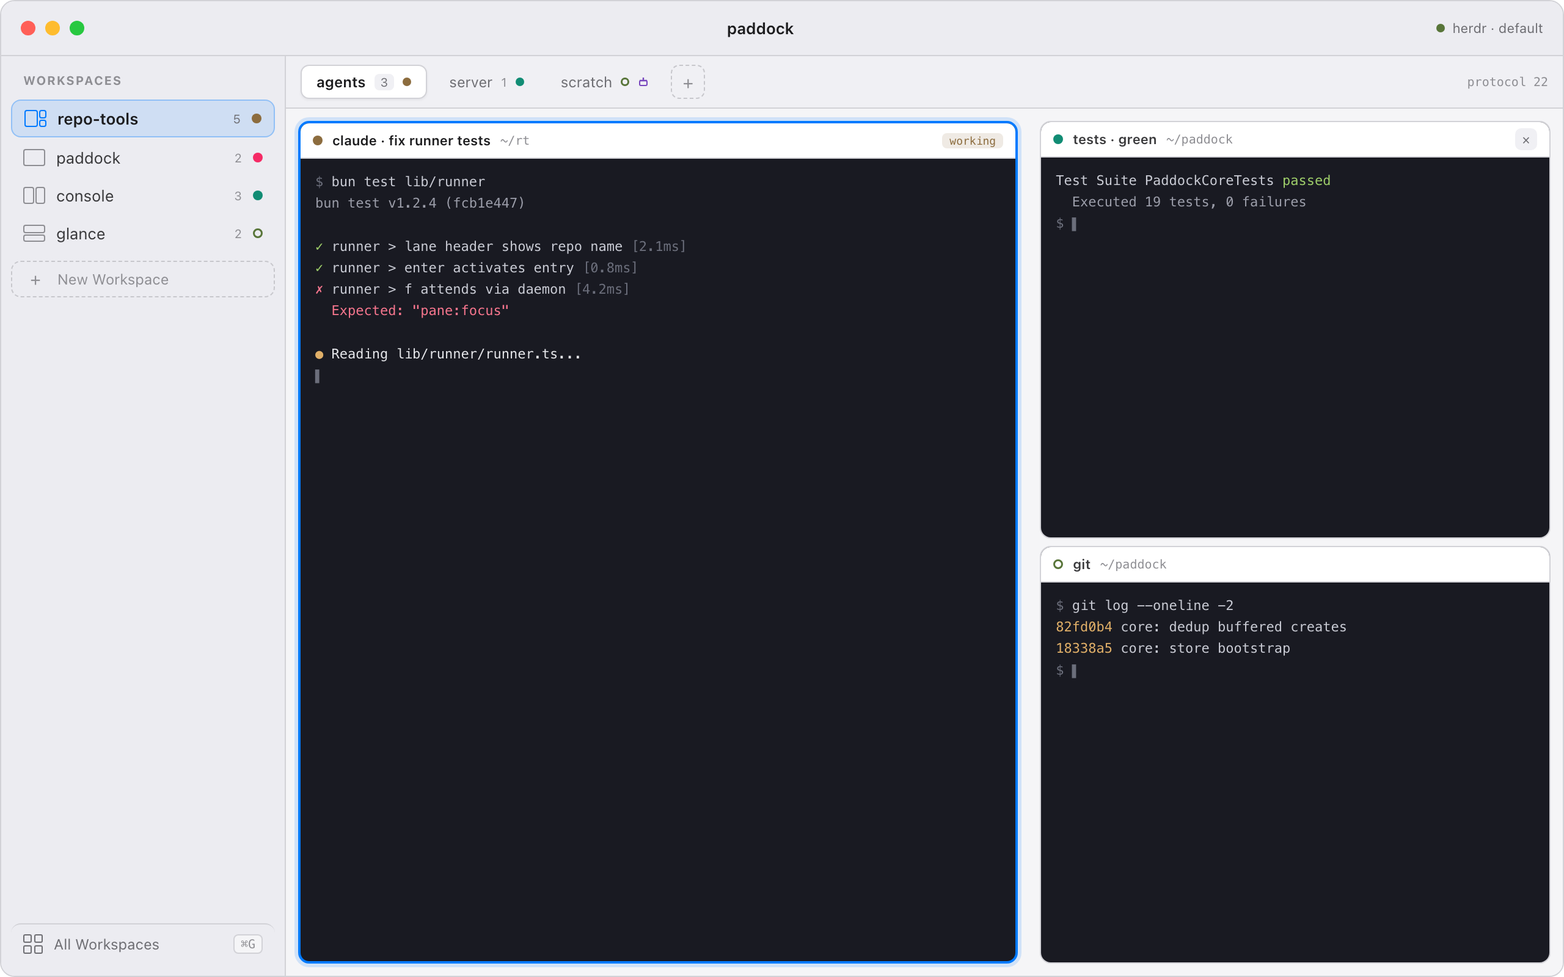
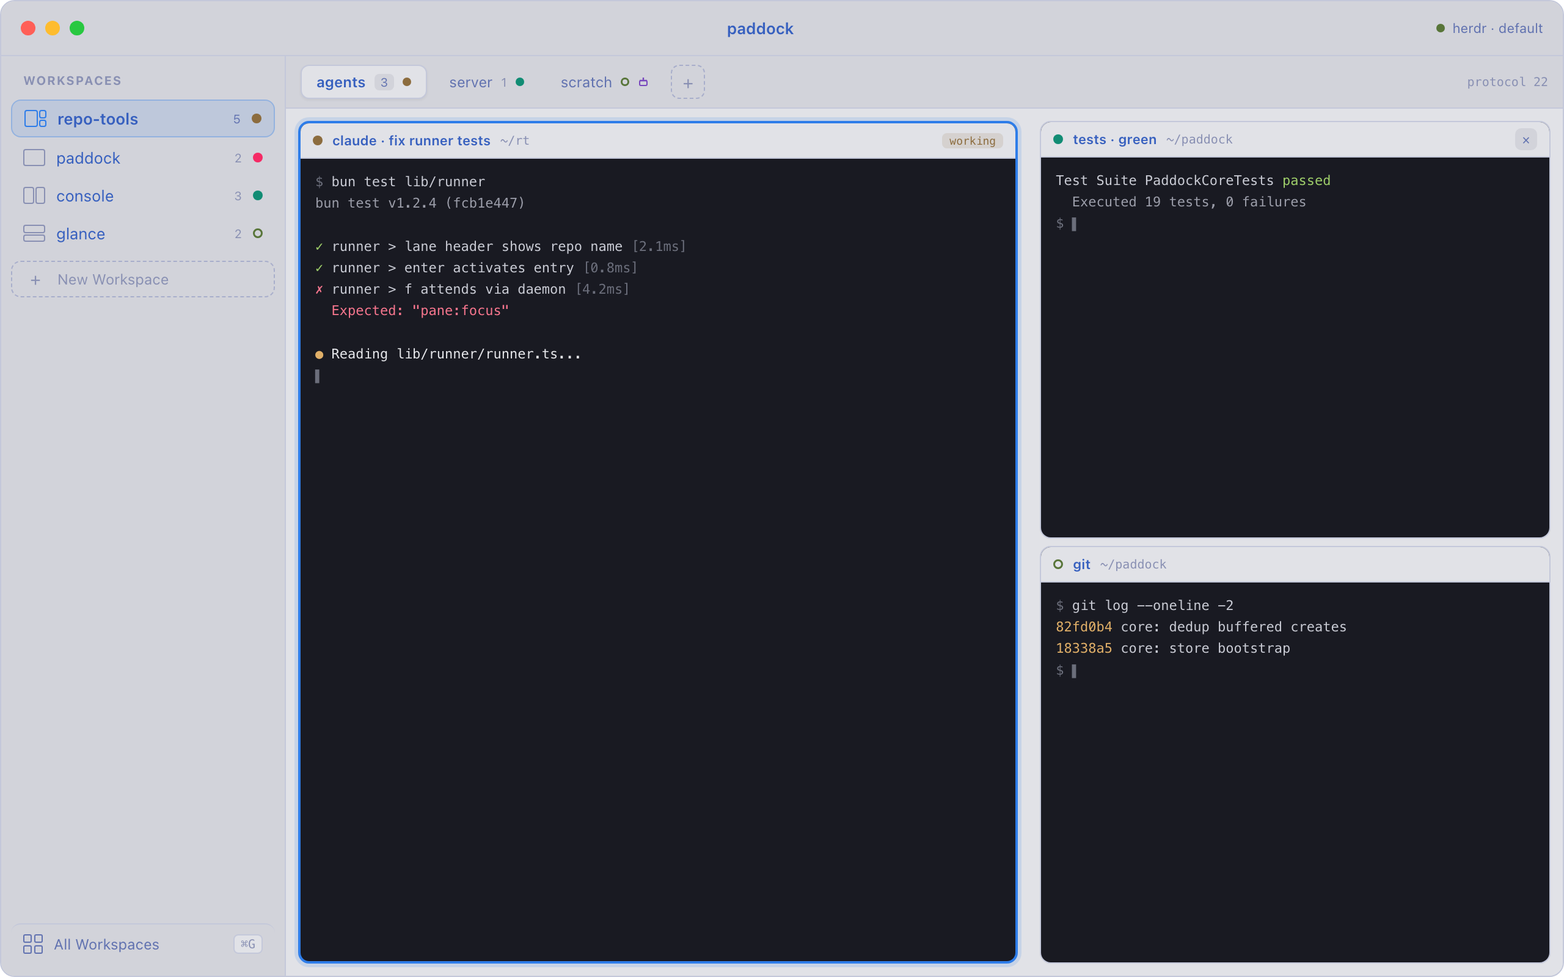
spec+plan+design: named themes mirroring herdr palettes, no light/dark modes
Claude-Session: https://claude.ai/code/session_01JFFjTKEtAPzB2Y3Ruktwxp

diff --git a/docs/design/src/MainLight.dc.html b/docs/design/src/MainLight.dc.html
@@ -13,99 +13,99 @@
     .mono { font-family: ui-monospace, "SF Mono", Menlo, monospace; }
   </style>
 </helmet>
-<div style="box-sizing: border-box; width: 1280px; height: 800px; background: #F5F5F7; border-radius: 12px; overflow: hidden; display: flex; flex-direction: column; border: 1px solid #D2D2D7;">
+<div style="box-sizing: border-box; width: 1280px; height: 800px; background: #E1E2E7; border-radius: 12px; overflow: hidden; display: flex; flex-direction: column; border: 1px solid #C4C8DA;">
 
-  <div style="height: 44px; flex: none; display: flex; align-items: center; background: #ECECF1; border-bottom: 1px solid #D2D2D7;">
+  <div style="height: 44px; flex: none; display: flex; align-items: center; background: #D2D3DA; border-bottom: 1px solid #C4C8DA;">
     <div style="display: flex; gap: 8px; padding: 0 16px;">
       <div style="width: 12px; height: 12px; border-radius: 6px; background: #FF5F57;"></div>
       <div style="width: 12px; height: 12px; border-radius: 6px; background: #FEBC2E;"></div>
       <div style="width: 12px; height: 12px; border-radius: 6px; background: #28C840;"></div>
     </div>
-    <div style="flex: 1; text-align: center; font-size: 13px; font-weight: 600; color: #1D1D1F;">paddock</div>
+    <div style="flex: 1; text-align: center; font-size: 13px; font-weight: 600; color: #3760BF;">paddock</div>
     <div style="display: flex; align-items: center; gap: 6px; padding: 0 16px;">
       <div style="width: 7px; height: 7px; border-radius: 4px; background: #587539;"></div>
-      <div style="font-size: 11px; color: #6E6E73;">herdr · default</div>
+      <div style="font-size: 11px; color: #6172B0;">herdr · default</div>
     </div>
   </div>
 
   <div style="flex: 1; display: flex; min-height: 0;">
 
-    <div style="width: 216px; flex: none; background: #ECECF1; border-right: 1px solid #D2D2D7; display: flex; flex-direction: column; padding: 10px 8px; gap: 2px;">
-      <div style="font-size: 10px; font-weight: 700; letter-spacing: 0.08em; color: #8E8E93; padding: 4px 10px 8px;">WORKSPACES</div>
+    <div style="width: 216px; flex: none; background: #D2D3DA; border-right: 1px solid #C4C8DA; display: flex; flex-direction: column; padding: 10px 8px; gap: 2px;">
+      <div style="font-size: 10px; font-weight: 700; letter-spacing: 0.08em; color: #8990B3; padding: 4px 10px 8px;">WORKSPACES</div>
 
-      <div style="display: flex; align-items: center; gap: 9px; padding: 7px 10px; border-radius: 8px; background: rgba(0,122,255,0.12); border: 1px solid rgba(0,122,255,0.3);">
-        <svg width="18" height="14" viewBox="0 0 18 14" fill="none"><rect x="0.5" y="0.5" width="10" height="13" rx="1.5" stroke="#007AFF"/><rect x="12.5" y="0.5" width="5" height="6" rx="1.5" stroke="#007AFF"/><rect x="12.5" y="8.5" width="5" height="5" rx="1.5" stroke="#007AFF"/></svg>
-        <div style="flex: 1; font-size: 13px; font-weight: 600; color: #1D1D1F;">repo-tools</div>
-        <div style="font-size: 10px; color: #6E6E73;">5</div>
+      <div style="display: flex; align-items: center; gap: 9px; padding: 7px 10px; border-radius: 8px; background: rgba(46,125,233,0.12); border: 1px solid rgba(46,125,233,0.3);">
+        <svg width="18" height="14" viewBox="0 0 18 14" fill="none"><rect x="0.5" y="0.5" width="10" height="13" rx="1.5" stroke="#2E7DE9"/><rect x="12.5" y="0.5" width="5" height="6" rx="1.5" stroke="#2E7DE9"/><rect x="12.5" y="8.5" width="5" height="5" rx="1.5" stroke="#2E7DE9"/></svg>
+        <div style="flex: 1; font-size: 13px; font-weight: 600; color: #3760BF;">repo-tools</div>
+        <div style="font-size: 10px; color: #6172B0;">5</div>
         <div style="width: 8px; height: 8px; border-radius: 4px; background: #8C6C3E;"></div>
       </div>
 
       <div style="display: flex; align-items: center; gap: 9px; padding: 7px 10px; border-radius: 8px;">
-        <svg width="18" height="14" viewBox="0 0 18 14" fill="none"><rect x="0.5" y="0.5" width="17" height="13" rx="1.5" stroke="#8E8E93"/></svg>
-        <div style="flex: 1; font-size: 13px; color: #3A3A3C;">paddock</div>
-        <div style="font-size: 10px; color: #8E8E93;">2</div>
+        <svg width="18" height="14" viewBox="0 0 18 14" fill="none"><rect x="0.5" y="0.5" width="17" height="13" rx="1.5" stroke="#8990B3"/></svg>
+        <div style="flex: 1; font-size: 13px; color: #3760BF;">paddock</div>
+        <div style="font-size: 10px; color: #8990B3;">2</div>
         <div style="width: 8px; height: 8px; border-radius: 4px; background: #F52A65;"></div>
       </div>
 
       <div style="display: flex; align-items: center; gap: 9px; padding: 7px 10px; border-radius: 8px;">
-        <svg width="18" height="14" viewBox="0 0 18 14" fill="none"><rect x="0.5" y="0.5" width="8" height="13" rx="1.5" stroke="#8E8E93"/><rect x="10.5" y="0.5" width="7" height="13" rx="1.5" stroke="#8E8E93"/></svg>
-        <div style="flex: 1; font-size: 13px; color: #3A3A3C;">console</div>
-        <div style="font-size: 10px; color: #8E8E93;">3</div>
+        <svg width="18" height="14" viewBox="0 0 18 14" fill="none"><rect x="0.5" y="0.5" width="8" height="13" rx="1.5" stroke="#8990B3"/><rect x="10.5" y="0.5" width="7" height="13" rx="1.5" stroke="#8990B3"/></svg>
+        <div style="flex: 1; font-size: 13px; color: #3760BF;">console</div>
+        <div style="font-size: 10px; color: #8990B3;">3</div>
         <div style="width: 8px; height: 8px; border-radius: 4px; background: #118C74;"></div>
       </div>
 
       <div style="display: flex; align-items: center; gap: 9px; padding: 7px 10px; border-radius: 8px;">
-        <svg width="18" height="14" viewBox="0 0 18 14" fill="none"><rect x="0.5" y="0.5" width="17" height="6" rx="1.5" stroke="#8E8E93"/><rect x="0.5" y="8.5" width="17" height="5" rx="1.5" stroke="#8E8E93"/></svg>
-        <div style="flex: 1; font-size: 13px; color: #3A3A3C;">glance</div>
-        <div style="font-size: 10px; color: #8E8E93;">2</div>
+        <svg width="18" height="14" viewBox="0 0 18 14" fill="none"><rect x="0.5" y="0.5" width="17" height="6" rx="1.5" stroke="#8990B3"/><rect x="0.5" y="8.5" width="17" height="5" rx="1.5" stroke="#8990B3"/></svg>
+        <div style="flex: 1; font-size: 13px; color: #3760BF;">glance</div>
+        <div style="font-size: 10px; color: #8990B3;">2</div>
         <div style="width: 8px; height: 8px; border-radius: 4px; box-sizing: border-box; background: transparent; border: 1.5px solid #587539;"></div>
       </div>
 
-      <div style="display: flex; align-items: center; gap: 9px; padding: 7px 10px; border-radius: 8px; border: 1px dashed #C7C7CC; margin-top: 6px;">
-        <div style="width: 18px; text-align: center; color: #8E8E93; font-size: 14px; line-height: 1;">+</div>
-        <div style="font-size: 12px; color: #8E8E93;">New Workspace</div>
+      <div style="display: flex; align-items: center; gap: 9px; padding: 7px 10px; border-radius: 8px; border: 1px dashed #A8AECB; margin-top: 6px;">
+        <div style="width: 18px; text-align: center; color: #8990B3; font-size: 14px; line-height: 1;">+</div>
+        <div style="font-size: 12px; color: #8990B3;">New Workspace</div>
       </div>
 
       <div style="flex: 1;"></div>
 
-      <div style="display: flex; align-items: center; gap: 9px; padding: 8px 10px; border-radius: 8px; border-top: 1px solid #D2D2D7;">
-        <svg width="16" height="16" viewBox="0 0 16 16" fill="none"><rect x="0.5" y="0.5" width="6" height="6" rx="1" stroke="#6E6E73"/><rect x="9.5" y="0.5" width="6" height="6" rx="1" stroke="#6E6E73"/><rect x="0.5" y="9.5" width="6" height="6" rx="1" stroke="#6E6E73"/><rect x="9.5" y="9.5" width="6" height="6" rx="1" stroke="#6E6E73"/></svg>
-        <div style="font-size: 12px; color: #6E6E73;">All Workspaces</div>
+      <div style="display: flex; align-items: center; gap: 9px; padding: 8px 10px; border-radius: 8px; border-top: 1px solid #C4C8DA;">
+        <svg width="16" height="16" viewBox="0 0 16 16" fill="none"><rect x="0.5" y="0.5" width="6" height="6" rx="1" stroke="#6172B0"/><rect x="9.5" y="0.5" width="6" height="6" rx="1" stroke="#6172B0"/><rect x="0.5" y="9.5" width="6" height="6" rx="1" stroke="#6172B0"/><rect x="9.5" y="9.5" width="6" height="6" rx="1" stroke="#6172B0"/></svg>
+        <div style="font-size: 12px; color: #6172B0;">All Workspaces</div>
         <div style="flex: 1;"></div>
-        <div class="mono" style="font-size: 10px; color: #8E8E93; background: #F5F5F7; border: 1px solid #D2D2D7; border-radius: 4px; padding: 1px 5px;">⌘G</div>
+        <div class="mono" style="font-size: 10px; color: #8990B3; background: #E1E2E7; border: 1px solid #C4C8DA; border-radius: 4px; padding: 1px 5px;">⌘G</div>
       </div>
     </div>
 
     <div style="flex: 1; display: flex; flex-direction: column; min-width: 0;">
 
-      <div style="height: 42px; flex: none; display: flex; align-items: center; gap: 6px; padding: 0 12px; background: #F0F0F4; border-bottom: 1px solid #D2D2D7;">
-        <div style="display: flex; align-items: center; gap: 7px; padding: 6px 12px; border-radius: 7px; background: #FFFFFF; border: 1px solid #D2D2D7; box-shadow: 0 1px 2px rgba(0,0,0,0.06);">
-          <div style="font-size: 12px; font-weight: 600; color: #1D1D1F;">agents</div>
-          <div style="font-size: 10px; color: #6E6E73; background: #F0F0F4; border-radius: 4px; padding: 1px 5px;">3</div>
+      <div style="height: 42px; flex: none; display: flex; align-items: center; gap: 6px; padding: 0 12px; background: #D2D3DA; border-bottom: 1px solid #C4C8DA;">
+        <div style="display: flex; align-items: center; gap: 7px; padding: 6px 12px; border-radius: 7px; background: #E1E2E7; border: 1px solid #C4C8DA; box-shadow: 0 1px 2px rgba(0,0,0,0.06);">
+          <div style="font-size: 12px; font-weight: 600; color: #3760BF;">agents</div>
+          <div style="font-size: 10px; color: #6172B0; background: #D2D3DA; border-radius: 4px; padding: 1px 5px;">3</div>
           <div style="width: 7px; height: 7px; border-radius: 4px; background: #8C6C3E;"></div>
         </div>
         <div style="display: flex; align-items: center; gap: 7px; padding: 6px 12px; border-radius: 7px;">
-          <div style="font-size: 12px; color: #6E6E73;">server</div>
-          <div style="font-size: 10px; color: #8E8E93;">1</div>
+          <div style="font-size: 12px; color: #6172B0;">server</div>
+          <div style="font-size: 10px; color: #8990B3;">1</div>
           <div style="width: 7px; height: 7px; border-radius: 4px; background: #118C74;"></div>
         </div>
         <div style="display: flex; align-items: center; gap: 7px; padding: 6px 12px; border-radius: 7px;">
-          <div style="font-size: 12px; color: #6E6E73;">scratch</div>
+          <div style="font-size: 12px; color: #6172B0;">scratch</div>
           <div style="width: 7px; height: 7px; border-radius: 4px; box-sizing: border-box; background: transparent; border: 1.5px solid #587539;"></div>
           <svg width="9" height="9" viewBox="0 0 9 9" fill="none"><path d="M1.5 3.5h6M4.5 1v2.5" stroke="#7847BD" stroke-width="1.2"/><rect x="1.5" y="3.5" width="6" height="4" rx="1" stroke="#7847BD"/></svg>
         </div>
-        <div style="width: 26px; height: 26px; border-radius: 7px; border: 1px dashed #C7C7CC; display: flex; align-items: center; justify-content: center; color: #8E8E93; font-size: 14px;">+</div>
+        <div style="width: 26px; height: 26px; border-radius: 7px; border: 1px dashed #A8AECB; display: flex; align-items: center; justify-content: center; color: #8990B3; font-size: 14px;">+</div>
         <div style="flex: 1;"></div>
-        <div class="mono" style="font-size: 10px; color: #8E8E93;">protocol 22</div>
+        <div class="mono" style="font-size: 10px; color: #8990B3;">protocol 22</div>
       </div>
 
-      <div style="flex: 1; display: flex; gap: 6px; padding: 10px; min-height: 0; background: #F5F5F7;">
+      <div style="flex: 1; display: flex; gap: 6px; padding: 10px; min-height: 0; background: #E1E2E7;">
 
-        <div style="flex: 1.4; display: flex; flex-direction: column; border-radius: 9px; overflow: hidden; border: 2px solid #007AFF; box-shadow: 0 0 0 3px rgba(0,122,255,0.15); background: #191A22;">
-          <div style="height: 28px; flex: none; display: flex; align-items: center; gap: 8px; padding: 0 10px; background: #FFFFFF; border-bottom: 1px solid #D2D2D7;">
+        <div style="flex: 1.4; display: flex; flex-direction: column; border-radius: 9px; overflow: hidden; border: 2px solid #2E7DE9; box-shadow: 0 0 0 3px rgba(46,125,233,0.15); background: #191A22;">
+          <div style="height: 28px; flex: none; display: flex; align-items: center; gap: 8px; padding: 0 10px; background: #E1E2E7; border-bottom: 1px solid #C4C8DA;">
             <div style="width: 8px; height: 8px; border-radius: 4px; background: #8C6C3E;"></div>
-            <div style="font-size: 11px; font-weight: 600; color: #1D1D1F;">claude · fix runner tests</div>
-            <div class="mono" style="font-size: 10px; color: #8E8E93;">~/rt</div>
+            <div style="font-size: 11px; font-weight: 600; color: #3760BF;">claude · fix runner tests</div>
+            <div class="mono" style="font-size: 10px; color: #8990B3;">~/rt</div>
             <div style="flex: 1;"></div>
             <div class="mono" style="font-size: 9px; color: #8C6C3E; background: rgba(140,108,62,0.14); border-radius: 4px; padding: 1px 6px;">working</div>
           </div>
@@ -127,13 +127,13 @@
 
         <div style="flex: 1; display: flex; flex-direction: column; gap: 6px; min-width: 0;">
 
-          <div style="flex: 1; display: flex; flex-direction: column; border-radius: 9px; overflow: hidden; border: 1px solid #D2D2D7; background: #191A22;">
-            <div style="height: 28px; flex: none; display: flex; align-items: center; gap: 8px; padding: 0 10px; background: #FFFFFF; border-bottom: 1px solid #D2D2D7;">
+          <div style="flex: 1; display: flex; flex-direction: column; border-radius: 9px; overflow: hidden; border: 1px solid #C4C8DA; background: #191A22;">
+            <div style="height: 28px; flex: none; display: flex; align-items: center; gap: 8px; padding: 0 10px; background: #E1E2E7; border-bottom: 1px solid #C4C8DA;">
               <div style="width: 8px; height: 8px; border-radius: 4px; background: #118C74;"></div>
-              <div style="font-size: 11px; font-weight: 600; color: #3A3A3C;">tests · green</div>
-              <div class="mono" style="font-size: 10px; color: #8E8E93;">~/paddock</div>
+              <div style="font-size: 11px; font-weight: 600; color: #3760BF;">tests · green</div>
+              <div class="mono" style="font-size: 10px; color: #8990B3;">~/paddock</div>
               <div style="flex: 1;"></div>
-              <div style="width: 18px; height: 18px; border-radius: 5px; background: #F0F0F4; display: flex; align-items: center; justify-content: center; color: #6E6E73; font-size: 11px; line-height: 1;">×</div>
+              <div style="width: 18px; height: 18px; border-radius: 5px; background: #D2D3DA; display: flex; align-items: center; justify-content: center; color: #6172B0; font-size: 11px; line-height: 1;">×</div>
             </div>
             <div class="mono" style="flex: 1; padding: 10px 12px; font-size: 11px; line-height: 1.6; color: #C9CBD4; overflow: hidden;">
               <div>Test Suite PaddockCoreTests <span style="color: #9ECE6A;">passed</span></div>
@@ -142,11 +142,11 @@
             </div>
           </div>
 
-          <div style="flex: 1; display: flex; flex-direction: column; border-radius: 9px; overflow: hidden; border: 1px solid #D2D2D7; background: #191A22;">
-            <div style="height: 28px; flex: none; display: flex; align-items: center; gap: 8px; padding: 0 10px; background: #FFFFFF; border-bottom: 1px solid #D2D2D7;">
+          <div style="flex: 1; display: flex; flex-direction: column; border-radius: 9px; overflow: hidden; border: 1px solid #C4C8DA; background: #191A22;">
+            <div style="height: 28px; flex: none; display: flex; align-items: center; gap: 8px; padding: 0 10px; background: #E1E2E7; border-bottom: 1px solid #C4C8DA;">
               <div style="width: 8px; height: 8px; border-radius: 4px; box-sizing: border-box; background: transparent; border: 1.5px solid #587539;"></div>
-              <div style="font-size: 11px; font-weight: 600; color: #3A3A3C;">git</div>
-              <div class="mono" style="font-size: 10px; color: #8E8E93;">~/paddock</div>
+              <div style="font-size: 11px; font-weight: 600; color: #3760BF;">git</div>
+              <div class="mono" style="font-size: 10px; color: #8990B3;">~/paddock</div>
               <div style="flex: 1;"></div>
             </div>
             <div class="mono" style="flex: 1; padding: 10px 12px; font-size: 11px; line-height: 1.6; color: #C9CBD4; overflow: hidden;">

diff --git a/docs/superpowers/plans/2026-09-10-paddock.md b/docs/superpowers/plans/2026-09-10-paddock.md
@@ -24,7 +24,7 @@
 - Every interactive SwiftUI element gets `.accessibilityIdentifier("paddock.<area>.<role>.<id>")`; the e2e suite depends on them.
 - Commit at the end of every task, and after any spike that produced findings.
 - No UI implementation code before Task 14's design-canvas sign-off. Tasks 9-13 are UI-free plumbing.
-- Agent status colors mirror herdr's header semantics (source: herdr `src/client/shell.rs` `status_color`), pinned to Tokyo Night: working `#E0AF68`, blocked `#F7768E`, done `#7DCFFF`, idle `#9ECE6A`, unknown `#565F89` (light chrome: Tokyo Night Day `#8C6C3E`/`#F52A65`/`#118C74`/`#587539`/`#8990B3`). Dot fill mirrors herdr's dots style: working/blocked/done filled, idle hollow ring, unknown small centered dot. Zoom badge is mauve `#BB9AF7`, never a status color.
+- Themes, not light/dark modes: `Theme` mirrors herdr's `Palette` shape; the 17 concrete herdr built-ins are transcribed verbatim from herdr `src/app/state.rs` (default tokyo-night); View-menu picker, persisted; system appearance ignored. All chrome and status colors derive from the active theme: working = theme.yellow, blocked = theme.red, done = theme.teal, idle = theme.green, unknown = theme.overlay0. Dot fill mirrors herdr's dots style: working/blocked/done filled, idle hollow ring, unknown small centered dot. Zoom badge is theme.mauve, never a status color. (Canvas references render Tokyo Night: `#E0AF68`/`#F7768E`/`#7DCFFF`/`#9ECE6A`/`#565F89`.)
 - Visual parity validation (Matt's gate rider): every hands-on checkpoint includes a visual pass BEFORE handing over: launch the app against a seeded scratch session, capture the real window (`screencapture -l <windowID>`), compare side by side against the reference PNGs in `docs/design/`, fix visible divergence (spacing, colors, dot styles, chrome) or record an approved deviation in the ledger, and commit the captures to `docs/design/parity/checkpoint-N/`. UI task reviewers treat uninvestigated visual divergence from the canvas as a finding.
 - Hands-on checkpoints (spec "Hands-on checkpoints"): the build STOPS after Tasks 16, 18b, 22, 26, and 28b. At each stop, build and launch paddock for Matt to try against his live session, collect feedback, fold it in before the next task. These are gates like Task 14, not FYIs.
 
@@ -630,6 +630,7 @@ func testSinglePaneHasNoDividers() { }
 
 **Files:**
 - Create: `Sources/Paddock/Views/MainWindow.swift`, `WorkspaceRail.swift`, `TabStrip.swift`, `PaneCanvas.swift`, `PaneCellView.swift` (status-card mode only)
+- Create: `Sources/Paddock/Theme/Theme.swift` (the herdr Palette shape + all 17 built-ins transcribed VERBATIM from herdr `~/Documents/GitHub/herdr/src/app/state.rs` `impl Palette`; `ThemeStore` holding the active theme, persisted via UserDefaults key `paddock.theme`, default `tokyo-night`; a View menu picker listing every theme by display name; injected via SwiftUI environment)
 - Create: `Sources/Paddock/ViewModels/SessionViewModel.swift`
 - Test: `Tests/PaddockCoreTests/SessionViewModelTests.swift`
 

diff --git a/docs/superpowers/specs/2026-09-10-paddock-design.md b/docs/superpowers/specs/2026-09-10-paddock-design.md
@@ -171,15 +171,26 @@ transform/opacity only, interruptible springs.
   arrow-key move/swap for the focused pane; accessibility identifiers on all
   interactive elements (also required by the e2e suite).
 - **Auto-scroll** near strip/rail edges with proximity-ramped velocity.
+- **Themes, not light/dark modes (herdr parity):** paddock has named
+  themes exactly like herdr. `Theme` mirrors herdr's `Palette` shape
+  (accent, panel_bg, sidebar_bg, active_row_bg, selection_bg, surface0/1,
+  surface_dim, overlay0/1, text, subtext0, mauve, green, yellow, red, blue,
+  teal, peach), and paddock bundles herdr's 17 concrete built-ins
+  transcribed VERBATIM from herdr `src/app/state.rs` (tokyo-night default;
+  tokyo-night-day, catppuccin, catppuccin-latte, dracula, nord, gruvbox,
+  gruvbox-light, one-dark, one-light, solarized, solarized-light, kanagawa,
+  kanagawa-lotus, rose-pine, rose-pine-dawn, vesper). Theme picked in the
+  View menu, persisted; macOS system appearance is ignored (herdr's
+  "terminal" theme follows the host terminal and has no paddock
+  equivalent). All chrome derives from the active theme's tokens; the
+  canvas references render Tokyo Night and Tokyo Night Day.
 - **Agent status colors mirror herdr's header semantics** (source:
-  `src/client/shell.rs` `status_color`): working = yellow, blocked = red,
-  done = teal, idle = green, unknown = dim overlay. v1 pins the Tokyo Night
-  values (`#E0AF68` / `#F7768E` / `#7DCFFF` / `#9ECE6A` / `#565F89`; light
-  chrome uses the Tokyo Night Day values), matching what theme = "terminal"
-  resolves to on this machine. Dot FILL mirrors herdr's dots style
-  (`status_icon`): working/blocked/done are filled, idle is a hollow ring,
-  unknown is a small centered dot. The zoom badge is mauve (`#BB9AF7`),
-  never a status color.
+  `src/client/shell.rs` `status_color`), drawn from the ACTIVE theme:
+  working = theme.yellow, blocked = theme.red, done = theme.teal,
+  idle = theme.green, unknown = theme.overlay0. Dot FILL mirrors herdr's
+  dots style (`status_icon`): working/blocked/done are filled, idle is a
+  hollow ring, unknown is a small centered dot. The zoom badge is
+  theme.mauve, never a status color.
 - **Copy on selection (herdr parity, v1):** mouse-up ends a selection in a
   live pane and the text is already on the clipboard (herdr ships
   `copy_on_select = true`); a quiet "Copied N lines" whisper confirms.

diff --git a/docs/design/README.md b/docs/design/README.md
@@ -2,12 +2,12 @@
 
 Task 14 design-canvas gate deliverables. The live canvas (editable, exports PNG/PDF) is the "Paddock Design" artifact: https://claude.ai/code/artifact/e891da81-51e1-46b7-875e-9bdb20bda905
 
-- `main-dark.png` / `main-light.png`: window anatomy (workspace rail, tab strip, pane canvas), focused pane, connection badge, protocol readout. Terminal cells keep the dark ground (#191A22) in both passes; only the chrome changes.
+- `main-dark.png` / `main-light.png`: window anatomy (workspace rail, tab strip, pane canvas) rendered in two THEMES, Tokyo Night and Tokyo Night Day (paddock has named themes mirroring herdr's 17 built-ins, no light/dark modes). Terminal cells keep the terminal's own ground (#191A22) in every theme.
 - `pane-states.png`: live/focused, detached status card, zoomed tab, blocked-agent attention, rename-in-place, hover close, agent status vocabulary.
 - `drag-states.png`: ghost + origin, 20% edge bands + interior, split preview, insertion bars, new-tab/new-workspace zones, spring-loading, rejection toast, spring parameters.
 - `all-workspaces.png`: the zoomed-out grid as a live drop surface.
 - `interactions.png`: attention toasts (click jumps to the source pane), copy-on-selection parity, right-click routing (herdr 0.9 `pane.input.set`), Option+click gesture (v1.5 input channel).
 
-Agent status colors mirror herdr's own header semantics (`src/client/shell.rs` `status_color` on the Tokyo Night palette, which theme = "terminal" resolves to on this machine): working `#E0AF68`, blocked `#F7768E`, done `#7DCFFF`, idle `#9ECE6A`, unknown `#565F89`. The zoom badge is mauve (`#BB9AF7`) so it never reads as a status. The light pass uses the Tokyo Night Day values (`#8C6C3E`/`#F52A65`/`#118C74`/`#587539`/`#8990B3`).
+Agent status colors mirror herdr's header semantics (`src/client/shell.rs` `status_color`), drawn from the active theme: working = yellow, blocked = red, done = teal, idle = green (hollow ring), unknown = overlay (centered dot). The references show Tokyo Night (`#E0AF68`/`#F7768E`/`#7DCFFF`/`#9ECE6A`/`#565F89`) and Tokyo Night Day. The zoom badge is theme mauve so it never reads as a status.
 
 `src/` holds the artboard sources (plain HTML; each renders standalone and as a canvas artboard). Terminal text and pane titles are illustrative; chrome, spacing, states, and colors are the proposal implementation must match.
